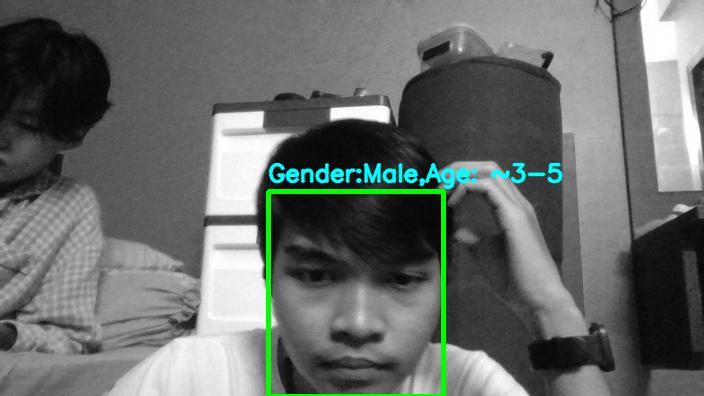
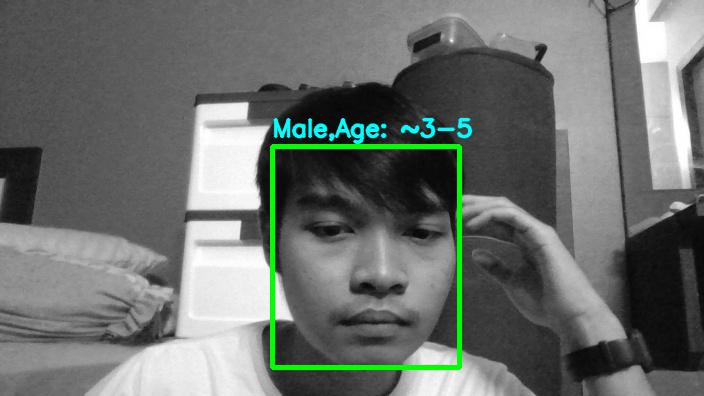
12

diff --git a/app.py b/app.py
@@ -1,39 +1,40 @@
-import time
 import cv2
-import base64
+import time
+import database as db
 import streamlit as st
 import pandas as pd
 import numpy as np
 from PIL import Image
-from io import BytesIO
+from datetime import datetime
 
-def get_face_box(net, frame, conf_threshold=0.7):
-    opencv_dnn_frame = frame.copy()
-    frame_height = opencv_dnn_frame.shape[0]
-    frame_width = opencv_dnn_frame.shape[1]
-    blob_img = cv2.dnn.blobFromImage(opencv_dnn_frame, 1.0, (300, 300), [
-        104, 117, 123], True, False)
+class Detectface():
+    def get_face_box(net, frame, conf_threshold=0.7):
+        opencv_dnn_frame = frame.copy()
+        frame_height = opencv_dnn_frame.shape[0]
+        frame_width = opencv_dnn_frame.shape[1]
+        blob_img = cv2.dnn.blobFromImage(opencv_dnn_frame, 1.0, (300, 300), [
+                                                            104, 117, 123], True, False)
 
-    net.setInput(blob_img)
-    detections = net.forward()
-    b_boxes_detect = []
-    for i in range(detections.shape[2]):
-        confidence = detections[0, 0, i, 2]
-        if confidence > conf_threshold:
-            x1 = int(detections[0, 0, i, 3] * frame_width)
-            y1 = int(detections[0, 0, i, 4] * frame_height)
-            x2 = int(detections[0, 0, i, 5] * frame_width)
-            y2 = int(detections[0, 0, i, 6] * frame_height)
-            b_boxes_detect.append([x1, y1, x2, y2])
-            cv2.rectangle(opencv_dnn_frame, (x1, y1), (x2, y2),
+        net.setInput(blob_img)
+        detections = net.forward()
+        b_boxes_detect = []
+        for i in range(detections.shape[2]):
+            confidence = detections[0, 0, i, 2]
+            if confidence > conf_threshold:
+                x1 = int(detections[0, 0, i, 3] * frame_width)
+                y1 = int(detections[0, 0, i, 4] * frame_height)
+                x2 = int(detections[0, 0, i, 5] * frame_width)
+                y2 = int(detections[0, 0, i, 6] * frame_height)
+                b_boxes_detect.append([x1, y1, x2, y2])
+                cv2.rectangle(opencv_dnn_frame, (x1, y1), (x2, y2),
                           (0, 255, 0), int(round(frame_height / 150)), 8)
-    return opencv_dnn_frame, b_boxes_detect
+        return opencv_dnn_frame, b_boxes_detect
 
 st.write("# Age and Gender prediction"+":star2:")
-st.write("## Upload a picture that contains a face")
+st.write("## Upload a picture that contains a face"+":camera:")
 
 bytes_data = None
-
+t=time.time()
 input_mode = st.radio("# Input mode", ["Camera", "File upload"])
 
 if input_mode == "Camera":
@@ -51,24 +52,24 @@ if bytes_data is None:
     st.stop()
     
 if photo:
-    image = Image.open(photo)
+    image = Image.open(photo) #เรียกใช้ photo
     cap = np.array(image)
     cv2.imwrite('temp.jpg', cv2.cvtColor(cap, cv2.COLOR_BGR2GRAY))
     cap=cv2.imread('temp.jpg')
-
+    #69-76 เรียกใช้ข้อมูลมาเก็บไว้ในตัวแแปล เพื่อให้ใช้งานได้สะดวกขึ้น
     face_txt_path="opencv_face_detector.pbtxt"
     face_model_path="opencv_face_detector_uint8.pb"
 
-    age_txt_path="age_deploy.prototxt"
-    age_model_path="age_net.caffemodel"
+    age_txt_path="age_deploy.prototxt" #ไฟล์ที่ลงท้ายด้วย .prototxt ไฟล์นี้กำหนดเลเยอร์ในโครงข่ายประสาทเทียม อินพุต เอาต์พุต และฟังก์ชันของแต่ละเลเยอร์ 72 และ 75 #ไฟล์ CNN ที่ช่วย แยกอายุ
+    age_model_path="age_net.caffemodel" #ไฟล์ที่ลงท้ายด้วย .caffemodel 73 และ 76 คือ This contains the information of the trained neural network (trained model)
 
-    gender_txt_path="gender_deploy.prototxt"
+    gender_txt_path="gender_deploy.prototxt" #ไฟล์ CNN ที่ช่วย แยกเพศ
     gender_model_path="gender_net.caffemodel"
 
     MODEL_MEAN_VALUES=(78.4263377603, 87.7689143744, 114.895847746)
     age_classes=['Age: ~1-2', 'Age: ~3-5', 'Age: ~6-14', 'Age: ~16-22',
                 'Age: ~25-30', 'Age: ~32-40', 'Age: ~45-50', 'Age: age is greater than 60']
-    gender_classes = ['Gender:Male', 'Gender:Female']
+    gender_classes = ['Male', 'Female']
 
     age_net = cv2.dnn.readNet(age_model_path, age_txt_path)
     gender_net = cv2.dnn.readNet(gender_model_path, gender_txt_path)
@@ -76,9 +77,9 @@ if photo:
 
     padding = 20
     t = time.time()
-    frameFace, b_boxes = get_face_box(face_net, cap)
+    frameFace, b_boxes = Detectface.get_face_box(face_net, cap) # Detectface เรียกใช้ฟังก์ชั่น highlightFace นอกคลาส
     if not b_boxes:
-        st.write("No face Detected, Checking next frame")
+        st.write("ไม่พบใบหน้าที่กำลังตรวจสอบ")
 
     for bbox in b_boxes:
         face = cap[max(0, bbox[1] -
@@ -115,34 +116,39 @@ if photo:
             255),
             2,
             cv2.LINE_AA)
-        st.image(frameFace) #โชว์รูปผ่านเว็ป
-        st.sidebar.header("Show")
-        df = pd.read_csv("data/test.csv")
-        st.sidebar.table(df)
 
-        options_form = st.sidebar.form("options_form")
-        user_name = options_form.text_input("Name")
-        user_age = options_form.text_input("Age")
-        add_data = options_form.form_submit_button()
-        if add_data:
-            new_data = {"name": user_name ,"age": int(user_age)}
+        st.image(frameFace) #้โชว์รูปผ่านเว็ป
+
+        st.sidebar.header("บันทึกข้อมูลลงในฐานข้อมูล")
+        df = pd.read_csv("data/test.csv") #กำหนดเส้นทางให้ df
+        st.sidebar.table(df) #โชว์ตารางออกมา
+        options_form = st.sidebar.form("options_form") #กำหนดตัวเลือก
+        add_name = options_form.text_input("โปรดใส่ชื่อของคุณ") #กำหนดกล่องข้อความให้รับค่า ชื่อ
+        now = datetime.now() #เซ็ตค่าให้เป็นเวลาปัจจุบัน
+        user_time = now.strftime("%H:%M:%S") #กำหนด ชั่วโมง นาที วินาที
+        add_data = options_form.form_submit_button("บันทึกจัดเก็บข้อมูล") #กำหนดปุ่มบันทึก
+        if add_data is not None: #กำหนดให้ทำการบันทึกข้อมูลไปยัง CSV
+            new_data = {"name": add_name , "gender": gender ,"age": age ,"time": user_time} #กำหนดให้บันทึกคอลัมน์
             df = df.append(new_data, ignore_index = True)
             df.to_csv("data/test.csv" , index = False)
+            db.insert_period(add_name,gender,age,user_time)
 
-        im_pil = Image.fromarray(frameFace)
-        im_pil.save('Result.jpeg') #บันทึกรูปผลลัพธ์ลงได้ฐานข้อมูล
-        with open("Result.jpeg", "rb") as file:  # เปิดรูป Result.jpeg เพื่อใช้ในการกำหนดปุ่มโหลดภาพ
+            if add_data: #กำหนดให้แสดงข้อความเมื่อกดปุ่ม
+                st.sidebar.header("บันทึกข้อมูลสำเร็จ") #แสดงข้อความทางแถบซ้าย
+
+            im_pil = Image.fromarray(frameFace)
+            im_pil.save('Result.jpeg') #บันทึกรูปผลลัพธ์ลงได้ฐานข้อมูล
+            with open("Result.jpeg", "rb") as file:  # เปิดรูป Result.jpeg เพื่อใช้ในการกำหนดปุ่มโหลดภาพ
                 btn = st.download_button( #กำหนดปุ่มโหลดภาพ
                         label="ดาวน์โหลดรูปภาพ", #กำหนดตัวอักษรในปุ่ม
                         data=file, #กำหนดให้ data มีค่าเท่ากับ file
                         file_name="image_test.jpeg", #กำหนดชื่อภาพ
-                        )
-                if btn :
-                    st.write('ดาวน์โหลดสำเร็จ')
-                    new_data = {"name": tt}
-                    df=pd.read_csv("data/imagedata.csv")
-                    df=df.append(new_data, ignore_index=True)
-                    st.title("Excel Update data")
-                    st.write(df)
-                else :
-                    st.write("คุณยังไม่ได้ทำการดาวน์โหลดรูปภาพ")
+                    )
+            if btn :
+                st.write('ดาวน์โหลดสำเร็จ')
+            else :
+                st.write("คุณยังไม่ได้ทำการดาวน์โหลดรูปภาพ")
+        if add_data :
+            st.write('สรุปกราฟ เพศและอายุ ของผู้ใช้งานทั้งหมด')
+            df2 = df.filter(regex= '(gender|age)', axis=1) #กำหนดให้แสดงแค่ เพศและอายุ
+            st.line_chart(df2) #กำหนดให้แสดงกราฟ

diff --git a/database.py b/database.py
@@ -1,20 +1,21 @@
+import os
 import streamlit as st  # pip install streamlit
 from deta import Deta  # pip install deta
+from dotenv import dotenv_values
 
+temp = dotenv_values(".env")
 
-# Load the environment variables
-DETA_KEY = "c0lbzahp_nyDCF3QJLWYAjAowXfMajByEPMjwP3ay"
+TOKEN = temp["DETA_KEY"] 
 
 # Initialize with a project key
-deta = Deta(DETA_KEY)
+deta = Deta(TOKEN)
 
 # This is how to create/connect a database
 db = deta.Base("imagesdata")
 
-
-def insert_period(idate, iname):
+def insert_period(add_name, gender, age, user_time):
     """Returns the report on a successful creation, otherwise raises an error"""
-    return db.put({"ID": idate, "imagename": iname})
+    return db.put({"key": add_name, "gender": gender, "age": age, "datetime": user_time})
 
 
 def fetch_all_periods():
@@ -26,10 +27,3 @@ def fetch_all_periods():
 def get_period(period):
     """If not found, the function will return None"""
     return db.get(period)
-
-idate = "2022-11-10"
-iname = "image_test"
-
-insert_period(idate,iname)
-fetch_all_periods()
-get_period("2002-11-10")
